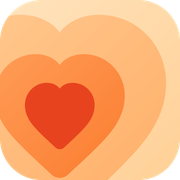
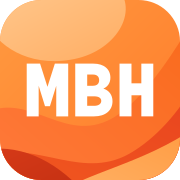
Новый знак: монограмма MBH на оранжевых дугах
Правка владельца 2026-09-18 по референсу иконки 1.1.1.1: скруглённый
квадрат, дуги, которые закручиваются и пересекаются, и белая
монограмма MBH — короткая марка бренда; полное имя MyBLHub остаётся в
вордмарке рядом со знаком и в домене. Гамма — оранжевая, как у прежнего
знака: персиковый завиток, фирменная оранжевая основа, дуги к
красно-оранжевому #e8431f, светлая дуга внизу справа. Радужные версии
(пастельная, тёплая, в порядке прайд-флага, инвертированная маской
внутри букв) владелец посмотрела и вернулась к оранжевой. Буквы
нарисованы контурами, не шрифтом: в фавиконе и иконках веб-шрифта нет.

Один источник в public/icons/logo.svg и src/app/icon.svg, инлайн в
Logo.tsx; PNG для PWA и apple-touch-icon собраны sharp-ом, OG-картинка
по умолчанию пересобрана с новым знаком.

diff --git a/src/components/Logo.tsx b/src/components/Logo.tsx
@@ -1,10 +1,17 @@
-// Фирменный знак: тёплый квадрат и «волны любви» — концентрические
-// сердца вокруг сплошного сердечка. Те же формы, что в
-// public/icons/logo.svg (фавикон/PWA): правишь тут — правь и там
-// (icon-192/512 генерятся из logo.svg через sharp).
-const HEART_PATH =
-  "M170 414c-4 0-8-1.6-11-4.6-11.4-10.8-42-37.6-56-56C92 339 86 324 86 308c0-31 24-54 53-54 12.6 0 24.4 5 31 14 6.6-9 18.4-14 31-14 29 0 53 23 53 54 0 16-6 31-17 45.4-14 18.4-44.6 45.2-56 56-3 3-7 4.6-11 4.6z";
-
+// Фирменный знак (переделан 2026-09-18 по референсу владельца — иконка
+// 1.1.1.1: скруглённый квадрат, мягкие волны, белая монограмма).
+// Волны — дуги, которые закручиваются и пересекаются, в оранжевой
+// гамме прежнего знака (персиковый завиток, фирменная оранжевая
+// основа, дуги к красно-оранжевому #e8431f, светлая дуга внизу справа).
+// Радужные версии — пастельная, тёплая, в порядке прайд-флага и
+// инвертированная маской — владелец посмотрела и вернулась к
+// оранжевой: «сделаем в цветах старой svg»;
+// буквы MBH — короткая марка бренда (полное имя MyBLHub остаётся в
+// вордмарке рядом и в домене). Буквы нарисованы контурами, а не
+// шрифтом: знак повторяется в public/icons/logo.svg (фавикон/PWA, из
+// него sharp собирает icon-192/512 и apple-touch-icon) и в
+// src/app/icon.svg — там веб-шрифта нет, и текст поплыл бы. Правишь
+// формы тут — правь и там (или пересобери из одного источника).
 export default function Logo() {
   return (
     <span className="d-inline-flex align-items-center gap-2">
@@ -15,35 +22,48 @@ export default function Logo() {
         className="flex-shrink-0"
         aria-hidden="true"
       >
-        <defs>
-          <linearGradient id="logo-bg" x1="0" y1="0" x2="1" y2="1">
-            <stop offset="0" stopColor="#ffe3bd" />
-            <stop offset="1" stopColor="#ffd096" />
-          </linearGradient>
-          <linearGradient id="logo-c1" x1="0" y1="0" x2="1" y2="1">
-            <stop offset="0" stopColor="#ffb469" />
-            <stop offset="1" stopColor="#ff9040" />
-          </linearGradient>
-          <linearGradient id="logo-c2" x1="0" y1="0" x2="1" y2="1">
-            <stop offset="0" stopColor="#ff8f45" />
-            <stop offset="1" stopColor="#f96a1b" />
-          </linearGradient>
-          <clipPath id="logo-clip">
-            <rect width="512" height="512" rx="118" />
-          </clipPath>
-        </defs>
-        <rect width="512" height="512" rx="118" fill="url(#logo-bg)" />
-        <g clipPath="url(#logo-clip)">
-          <g transform="translate(170 330) scale(3.6) translate(-170 -334)">
-            <path fill="url(#logo-c1)" opacity="0.55" d={HEART_PATH} />
-          </g>
-          <g transform="translate(170 330) scale(2.2) translate(-170 -334)">
-            <path fill="url(#logo-c2)" opacity="0.75" d={HEART_PATH} />
-          </g>
-        </g>
-        <g transform="translate(170 330) scale(1.18) translate(-170 -334)">
-          <path fill="#e8431f" d={HEART_PATH} />
-        </g>
+      <defs>
+        <linearGradient id="logo-bg" x1="0" y1="0" x2="1" y2="1">
+          <stop offset="0" stopColor="#ff9a40"/>
+          <stop offset="1" stopColor="#ff7a2a"/>
+        </linearGradient>
+        <linearGradient id="logo-pink" x1="0" y1="0" x2="1" y2="1">
+          <stop offset="0" stopColor="#ffc98f"/>
+          <stop offset="1" stopColor="#ffad63"/>
+        </linearGradient>
+        <linearGradient id="logo-coral" x1="0" y1="1" x2="1" y2="0">
+          <stop offset="0" stopColor="#ff7a3d"/>
+          <stop offset="1" stopColor="#f96a1b"/>
+        </linearGradient>
+        <linearGradient id="logo-orange" x1="0" y1="1" x2="1" y2="0">
+          <stop offset="0" stopColor="#f25a1f"/>
+          <stop offset="1" stopColor="#e8431f"/>
+        </linearGradient>
+        <linearGradient id="logo-gold" x1="0" y1="1" x2="1" y2="0">
+          <stop offset="0" stopColor="#ffb469"/>
+          <stop offset="1" stopColor="#ff9a40"/>
+        </linearGradient>
+        <linearGradient id="logo-mint" x1="0" y1="0" x2="1" y2="1">
+          <stop offset="0" stopColor="#d63a18"/>
+          <stop offset="1" stopColor="#c22f12"/>
+        </linearGradient>
+        <clipPath id="logo-clip">
+          <rect width="512" height="512" rx="118"/>
+        </clipPath>
+      </defs>
+      <rect width="512" height="512" rx="118" fill="url(#logo-bg)"/>
+      <g clipPath="url(#logo-clip)">
+        <path fill="url(#logo-pink)" d="M-40-40H330C400 30 330 150 200 170C80 190-10 130-40 60Z"/>
+          <path fill="url(#logo-coral)" d="M-40 560V320C90 260 190 420 330 330C420 270 500 140 560 40V560Z"/>
+        <path fill="url(#logo-orange)" d="M-40 560V440C110 400 240 520 380 430C460 380 520 300 560 230V560Z"/>
+        <path fill="url(#logo-gold)" d="M150 560C240 490 400 470 560 360V560Z"/>
+      <path fill="url(#logo-mint)" d="M-40 560V425C70 410 170 465 250 560Z"/>
+      </g>
+      <g fill="#fff" fillRule="evenodd" transform="translate(-5 0)">
+        <path d="M81 331V181h38l21 66 21-66h38v150h-34v-87l-18 58h-14l-18-58v87z"/>
+        <path d="M219 331V181h52c30 0 48 16 48 40 0 15-8 26-20 31 16 5 26 18 26 36 0 26-20 43-52 43zm34-119v32h16c12 0 18-6 18-16s-6-16-18-16zm0 62v27h20c13 0 20-6 20-14s-7-13-20-13z"/>
+        <path d="M345 331V181h34v56h28v-56h34v150h-34v-60h-28v60z"/>
+      </g>
       </svg>
       <span className="font-display fw-bold text-white">
         MyBL

diff --git a/docs/features/pwa.md b/docs/features/pwa.md
@@ -21,12 +21,20 @@ The tab bar and the burger drawer show below `lg` (992px) — see
   the browser remembers the name at install time: reading the locale
   cookie here would mean the home-screen shortcut is labelled in whatever
   language happened to be selected that day.
-- **`public/icons/icon-192.png`** / **`icon-512.png`** — generated once
-  by rendering the app's existing brand mark (the pin+dot from
-  `src/components/Logo.tsx`) to HTML and screenshotting it with
-  Playwright at each size (no image-editing tool involved — see git
-  history around when this was added if you need to regenerate them at a
-  different size).
+- **`public/icons/icon-192.png`** / **`icon-512.png`** — растеризуются
+  sharp-ом из `public/icons/logo.svg` (тот же знак, что в
+  `src/components/Logo.tsx` и `src/app/icon.svg`). Знак переделан
+  2026-09-18 по референсу владельца (иконка 1.1.1.1): скруглённый
+  квадрат, дуги, которые закручиваются и пересекаются, в оранжевой
+  гамме прежнего знака (персиковый завиток, фирменная оранжевая
+  основа, дуги к красно-оранжевому `#e8431f`), и белая монограмма
+  **MBH** — короткая марка бренда; полное имя MyBLHub остаётся в
+  вордмарке рядом со знаком и в домене. Радужные версии (пастельная,
+  тёплая, в порядке прайд-флага, инвертированная маской внутри букв)
+  владелец посмотрела и вернулась к оранжевой. Буквы нарисованы
+  контурами, не шрифтом: в SVG-файлах веб-шрифта нет, и текст поплыл
+  бы. Пересобрать PNG: `node -e` со sharp (`resize(192/512)` из svg,
+  density 300) — так же сделан `public/apple-touch-icon.png` (180).
 - **`src/app/layout.tsx`** — `icons` in `generateMetadata()` (favicon +
   apple-touch-icon, both pointing at the 192px icon) and a separate `viewport` export for
   `themeColor` (this Next.js version deprecated `metadata.themeColor` in

diff --git a/docs/features/seo.md b/docs/features/seo.md
@@ -214,7 +214,8 @@ these responses as “soft 404s”»). Next вставляет в поток
 в полный адрес.
 
 Страницы без своей картинки отдают `public/og-default.png` (1200×630):
-иконка приложения, вордмарк MyBLHub («BL» оранжевым — это бренд),
+знак MBH (см. [pwa.md](pwa.md), пересобрана 2026-09-18 вместе с новым
+знаком), вордмарк MyBLHub («BL» оранжевым — это бренд),
 подпись «Трекер концертов и фан-событий актёров» и чипы разделов
 (Актёры, Сериалы, События, Локации). Подпись — по канону словаря: «BL»
 и «тайских» в витринных текстах не используем вовсе, у бренда в
